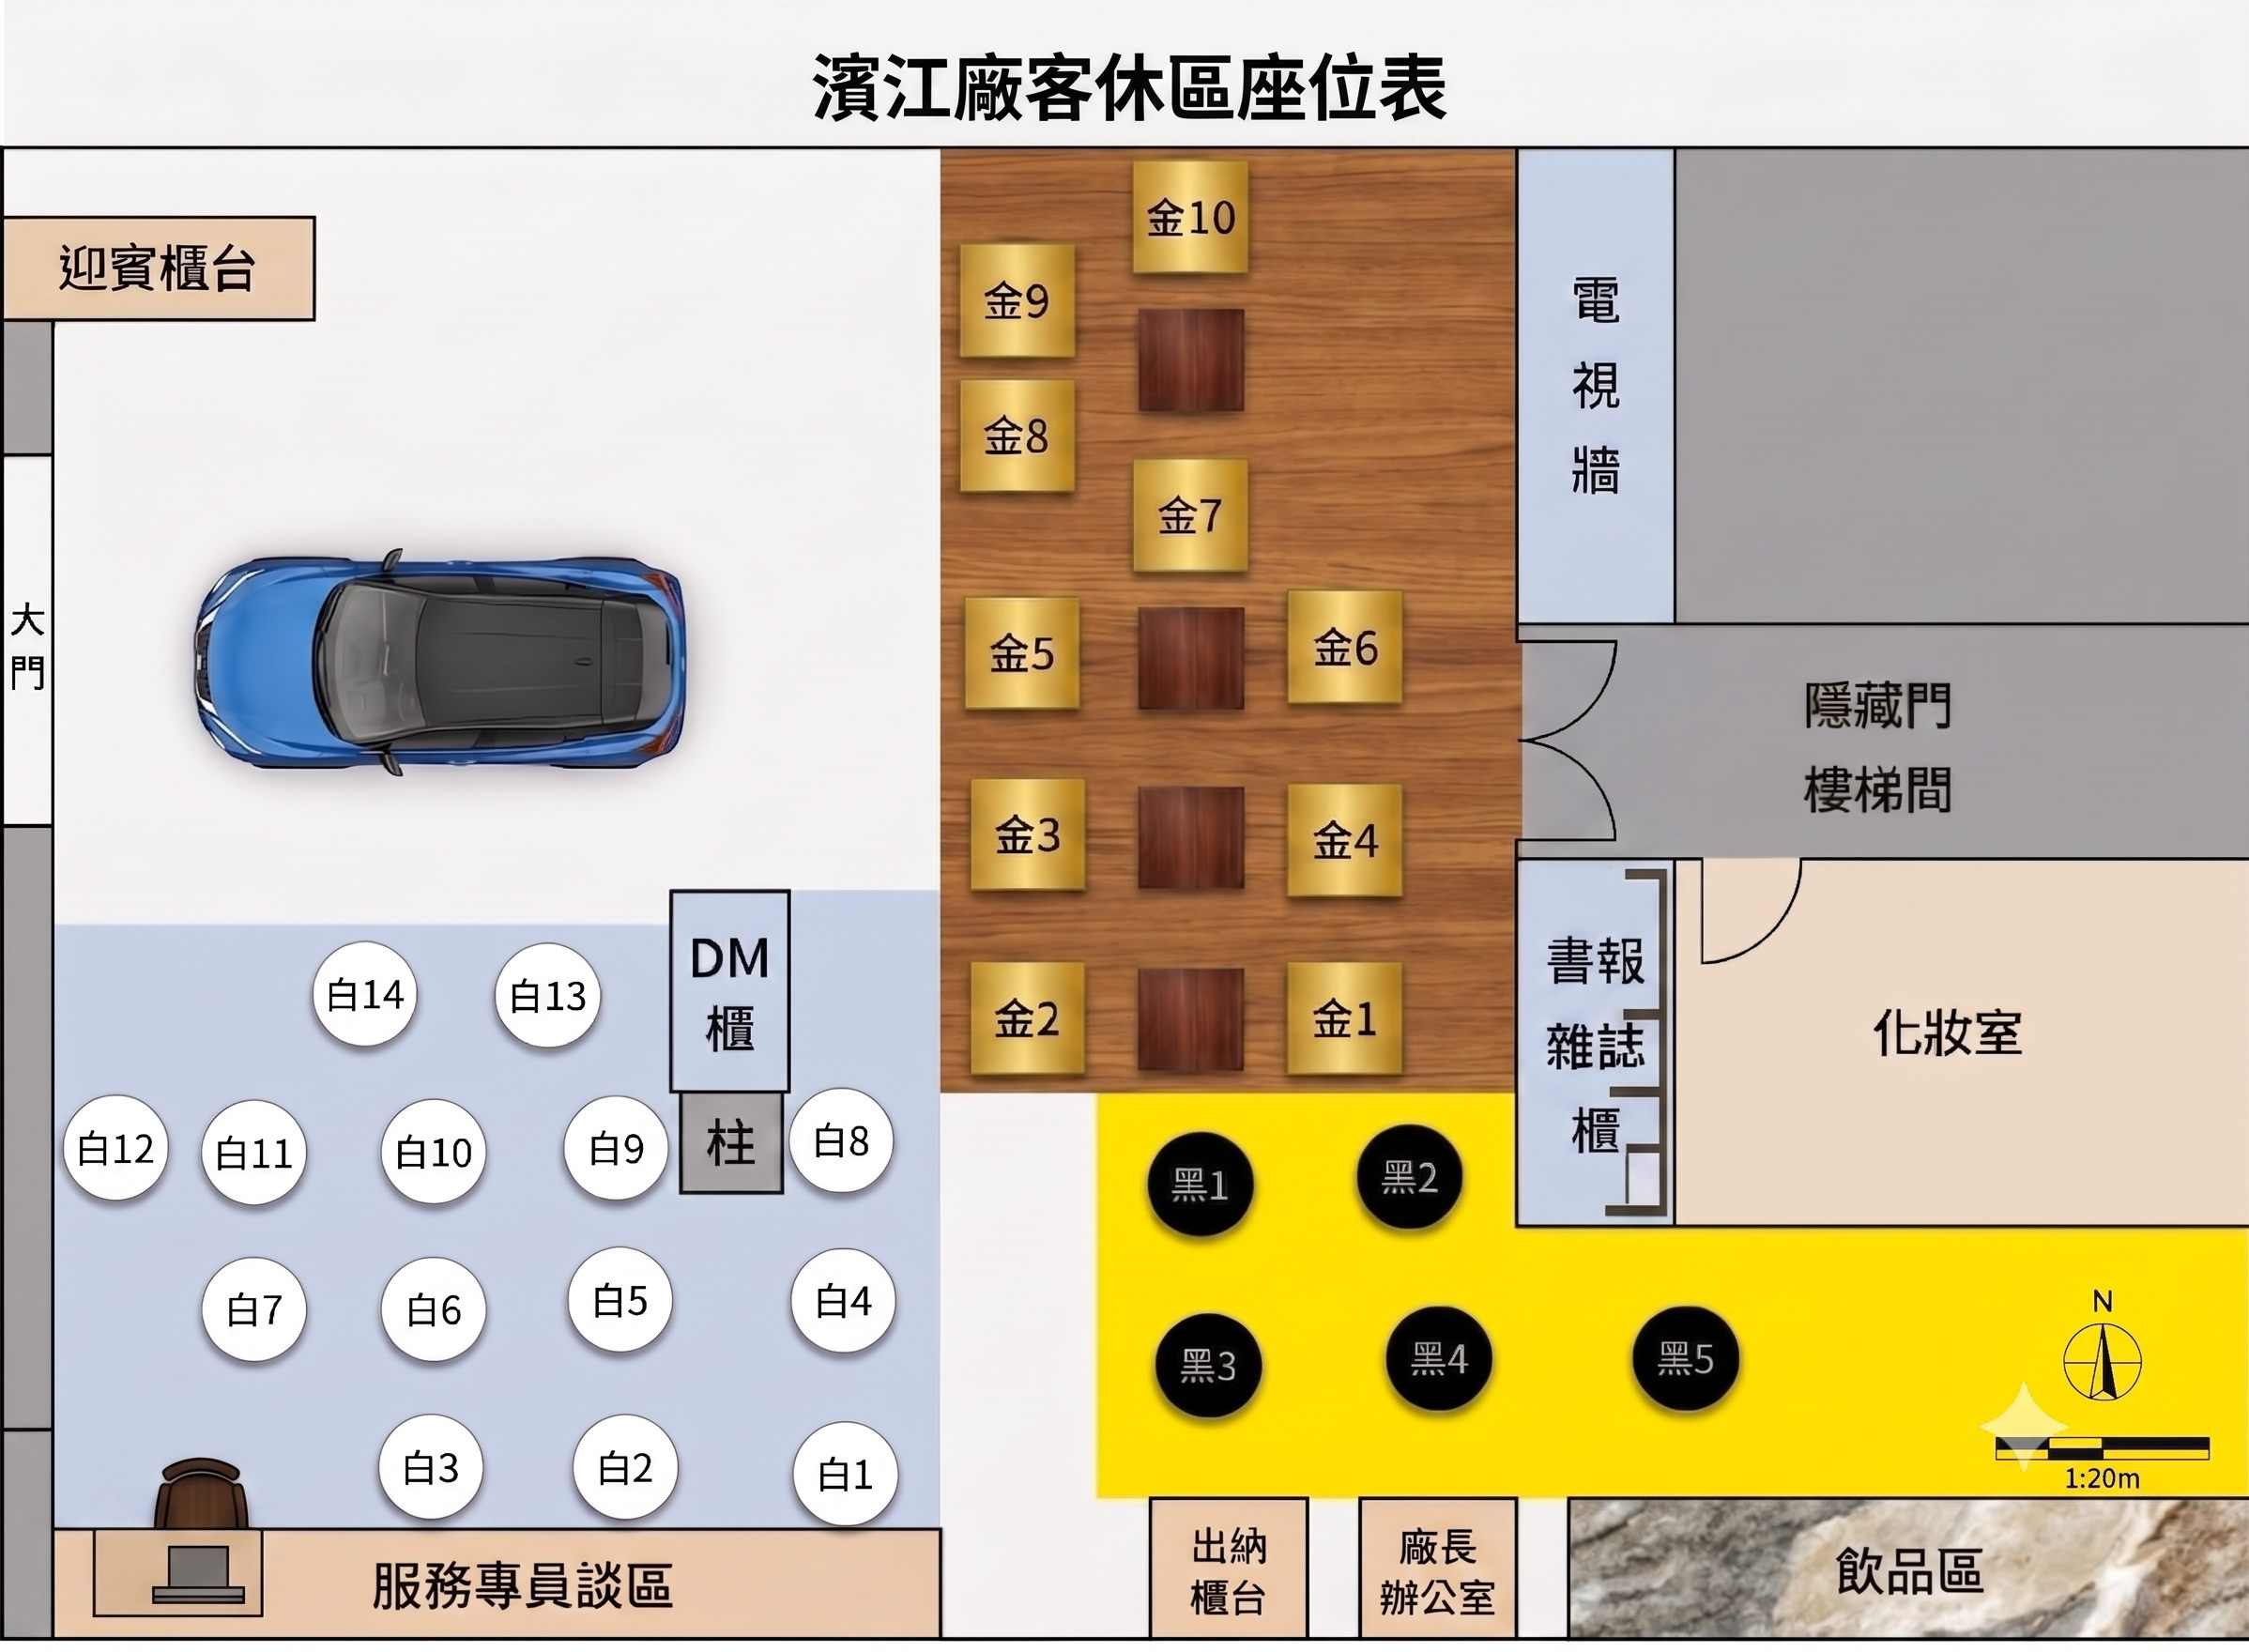
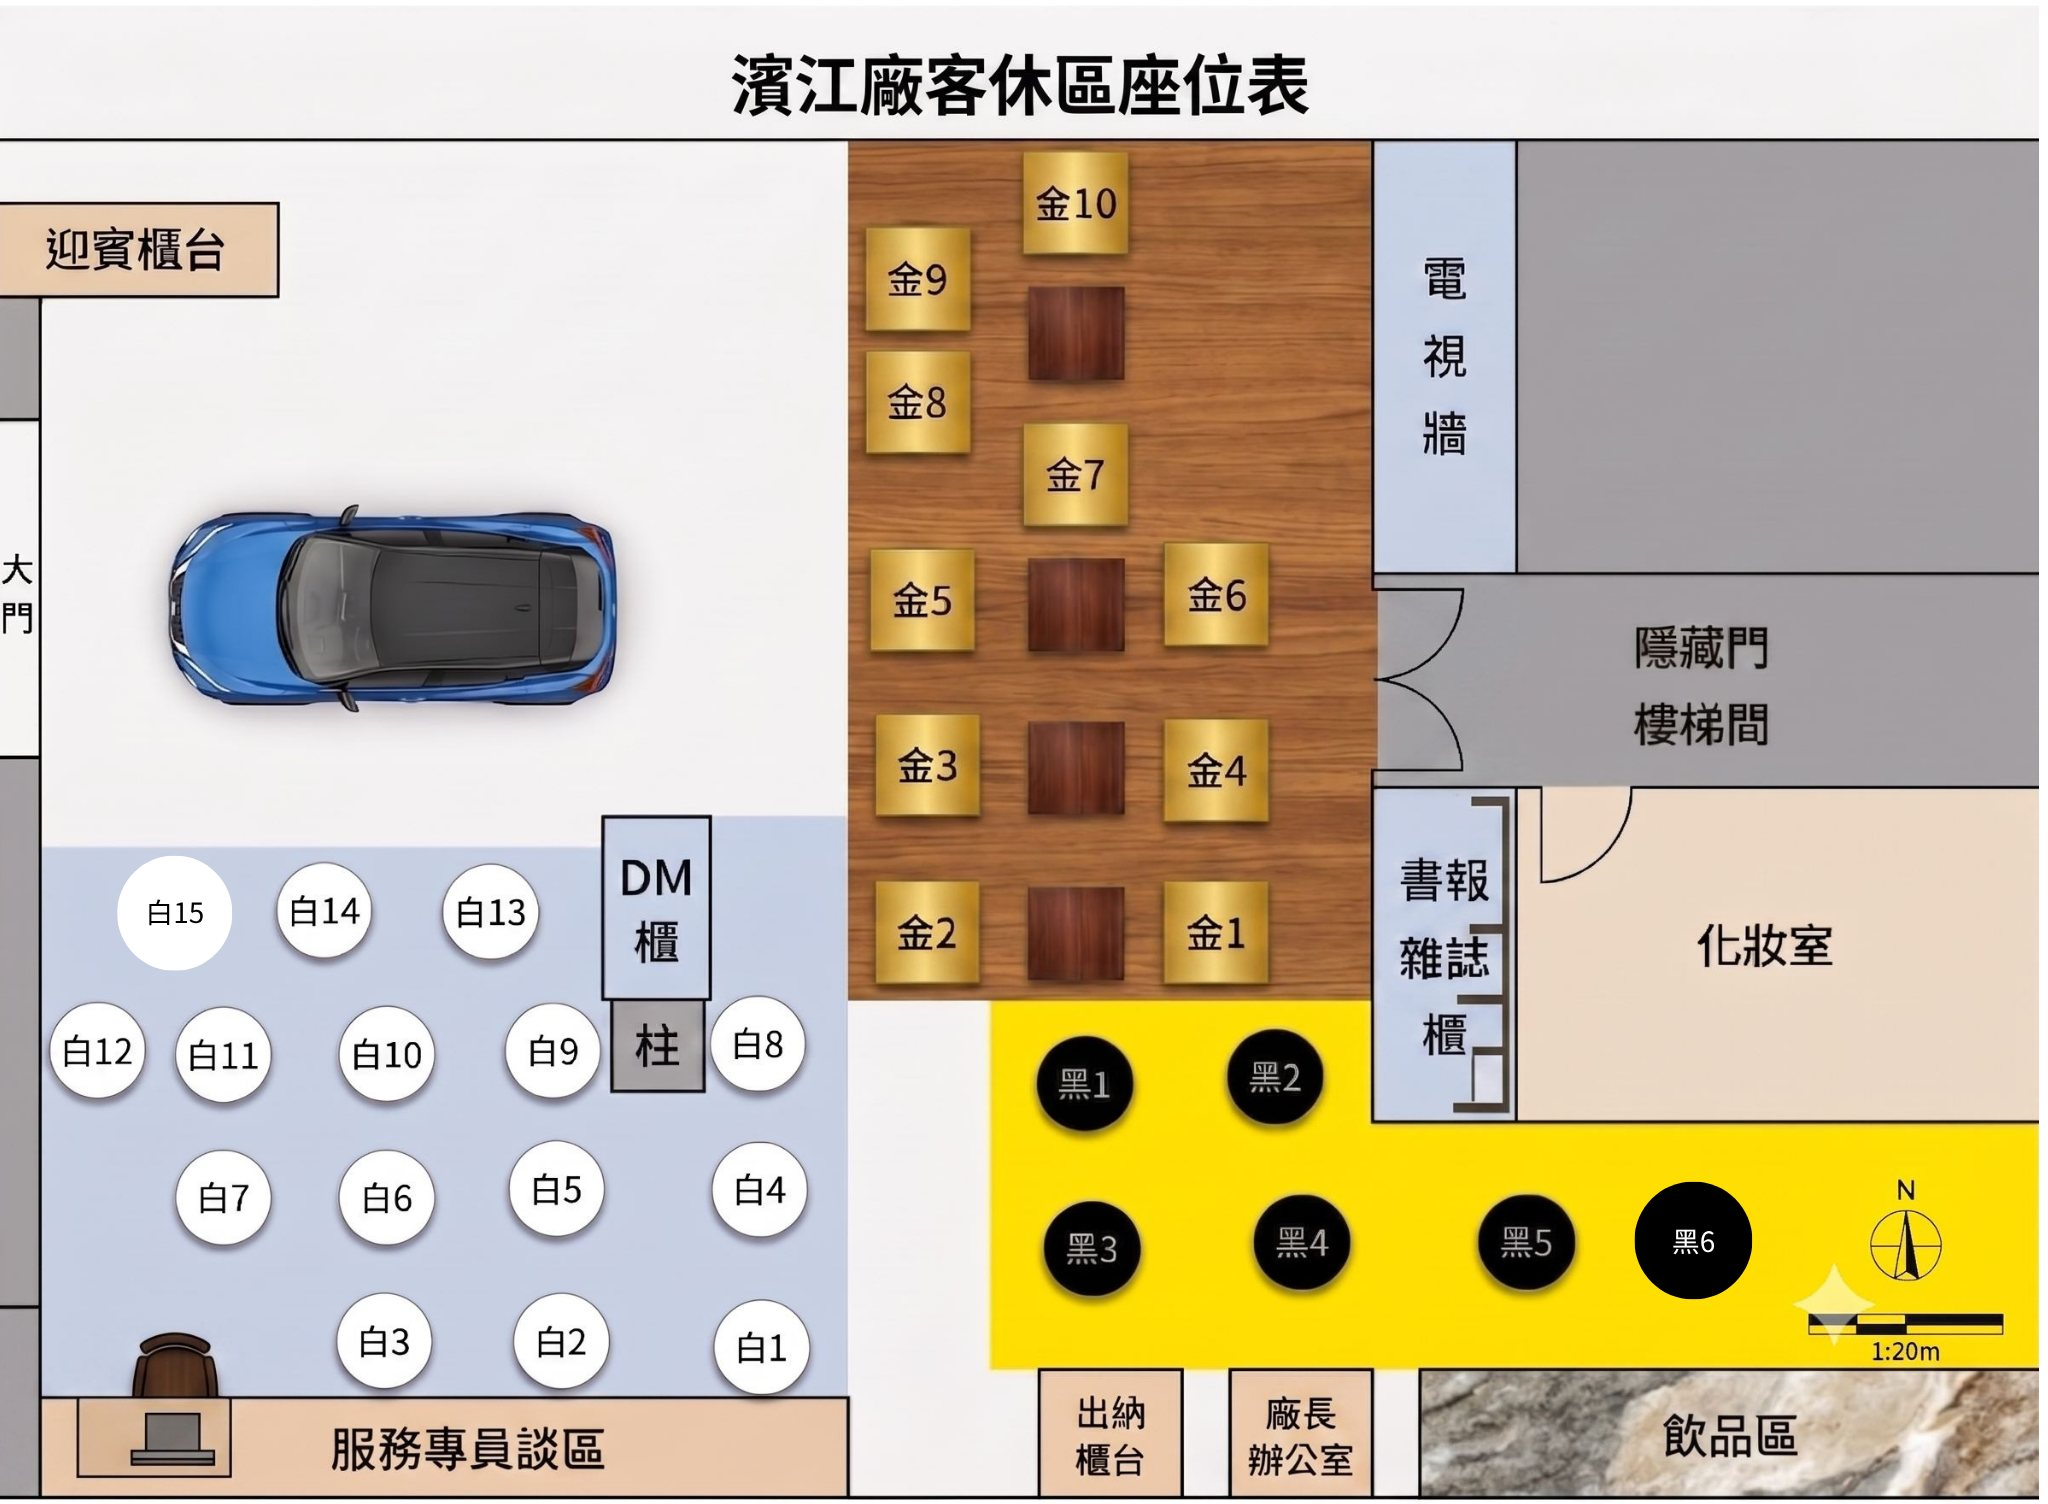
Update floor plan image and add 白15, 黑6 seats

diff --git a/index.html b/index.html
@@ -1085,9 +1085,9 @@
 <script>
 // ─── Config ───────────────────────────────────────────────────────────────────
 const SEATS = {
-  白: ['白1','白2','白3','白4','白5','白6','白7','白8','白9','白10','白11','白12','白13','白14','B8'],
+  白: ['白1','白2','白3','白4','白5','白6','白7','白8','白9','白10','白11','白12','白13','白14','白15','B8'],
   金: ['金1','金2','金3','金4','金5','金6','金7','金8','金9','金10'],
-  黑: ['黑1','黑2','黑3','黑4','黑5']
+  黑: ['黑1','黑2','黑3','黑4','黑5','黑6']
 };
 const STAFF = {
   服務專員: ['李啟弘','張瑋涵','洪節慶','吳佳寧','柯建銘','朱辰芳','蔡承翰'],